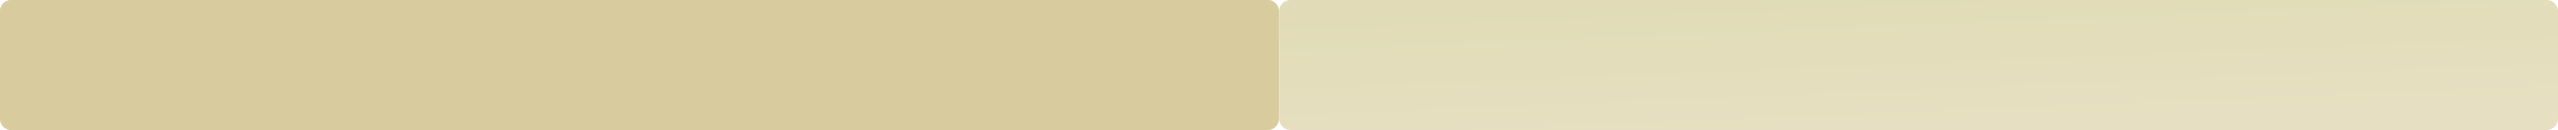
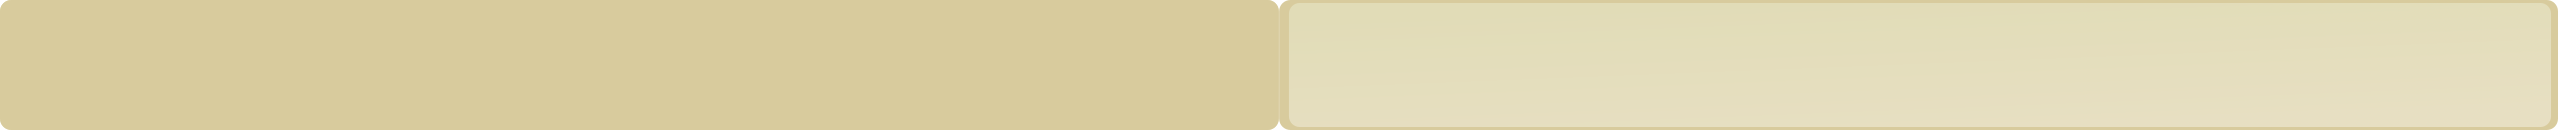
Atualizada programming drop zone e movimento do cara

Changed region(s): [[0.4941, 0.0, 1.0, 1.0]]

diff --git a/src/scenes/Game.ts b/src/scenes/Game.ts
@@ -41,7 +41,7 @@ export default class Game extends Scene {
     this.load.spritesheet('sprite-girl', 'assets/ct/sprite_girl.png', { frameWidth: 30, frameHeight: 77 });
     this.load.spritesheet('sprite-boy', 'assets/ct/sprite_boy.png', { frameWidth: 57, frameHeight: 110 });
     this.load.spritesheet('coin-gold', 'assets/ct/coin_gold.png', { frameWidth: 92, frameHeight: 94 });
-    this.load.spritesheet('trash', 'assets/ct/trash.png', { frameWidth: 104, frameHeight: 119 });
+    this.load.spritesheet('trash', 'assets/ct/trash.png', { frameWidth: 104, frameHeight: 122 });
 
     this.load.audio('blocked', 'assets/ct/sounds/blocked.ogg');
     this.load.audio('drag', 'assets/ct/sounds/drag.ogg');
@@ -70,9 +70,9 @@ export default class Game extends Scene {
     this.codeEditor = new CodeEditor(this, this.program, this.sounds, this.grid);
 
     let obstaclesMatrix: number[][] = [
-      [0, 0, 0, 0, 0, 0, 0, 0],
-      [0, 0, 0, 0, 0, 0, 0, 0],
-      [0, 0, 0, 0, 0, 0, 0, 0],
+      [0, 0, 1, 0, 0, 0, 0, 0],
+      [1, 0, 1, 0, 0, 0, 0, 0],
+      [1, 0, 0, 0, 0, 0, 0, 0],
       [0, 0, 0, 0, 0, 0, 0, 0],
       [0, 0, 0, 0, 0, 0, 0, 0],
       [0, 0, 0, 0, 0, 0, 0, 0],
@@ -163,7 +163,7 @@ export default class Game extends Scene {
   }
 
   update() {
-    //this.dude.update()
+    this.dude.update()
   }
 
   /* updateCurrentObjectPosition() {
